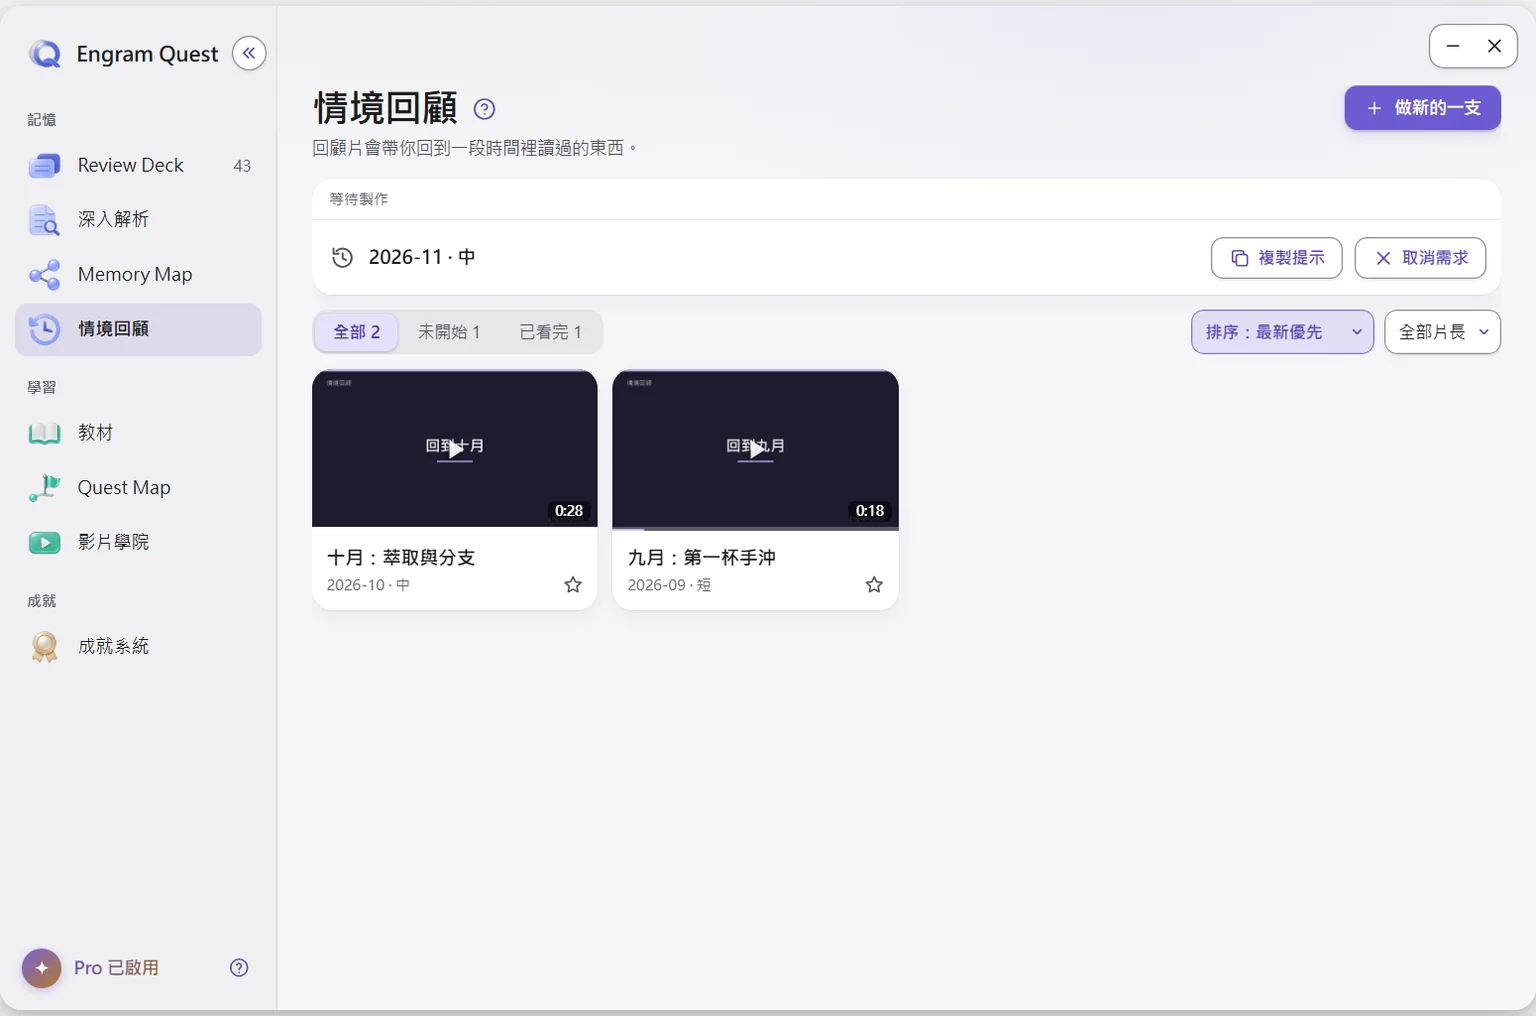
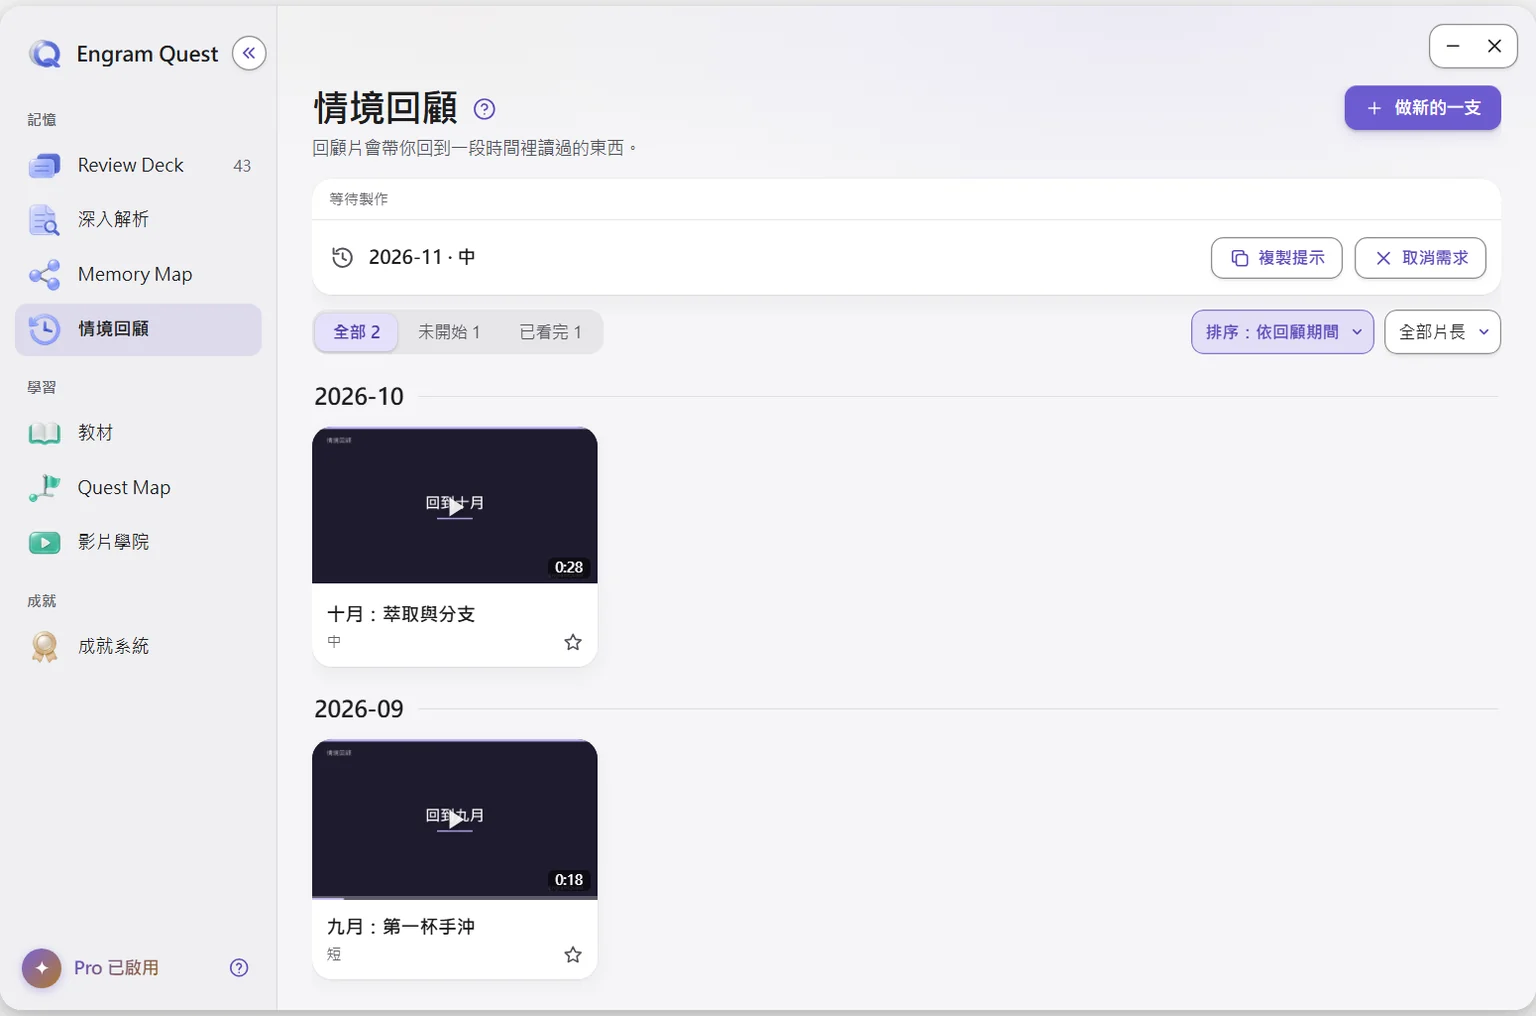
Recall Films opens grouped by period again, now the first sort option, since a recall film is about a period; newest, oldest and recently watched stay in the menu

Changed region(s): [[0.1875, 0.3661, 0.5938, 0.6102], [0.1875, 0.6713, 0.4062, 0.9154], [0.8125, 0.3051, 0.875, 0.3356]]

diff --git a/src/hub/help-content.js b/src/hub/help-content.js
@@ -148,7 +148,7 @@ module.exports = {
       {
         id: "episodic", tab: "episodic", icon: "recall", title: "情境回顧", tag: "觀看免費 · 製作 Pro",
         body: [
-          { p: "情境回顧片把一段時間（通常一個月）讀過的筆記整理成一支動畫影片，帶你回到當時學到的東西。最新做好的片排在最前面，點了就播。上方可以依觀看狀態（觀看中、未開始、已看完、已加星）和片長篩選，也能改成依回顧期間分組或最近看過的順序。想珍藏的片子按卡片上的 ☆ 加星。" },
+          { p: "情境回顧片把一段時間（通常一個月）讀過的筆記整理成一支動畫影片，帶你回到當時學到的東西。片子依回顧期間分組，最近的期間在最前面，點了就播。上方可以依觀看狀態（觀看中、未開始、已看完、已加星）和片長篩選，也能改成最新做好的、最舊的或最近看過的順序。想珍藏的片子按卡片上的 ☆ 加星。" },
           { steps: [
             "按「+ 做新的一支」，選起訖月份與片長（短／中／長，會顯示大約幾分鐘、幾個主題）。這次選的片長下次會自動帶入。",
             "插件記下這個需求並給你一段提示，貼進 Claude Code，episodic-review skill 就會開始做。",
@@ -469,7 +469,7 @@ module.exports = {
       {
         id: "episodic", tab: "episodic", icon: "recall", title: "Recall Films", tag: "Free to watch · Pro to make",
         body: [
-          { p: "A recall film turns the notes you read over a period (usually a month) into an animated film that walks you back through what you learned. The newest film comes first; click one to play it. The bar at the top filters by watch state (Watching, Not started, Finished, Starred) and length, and can group the films by period or list them by when you last watched. Press ☆ on a film to keep it." },
+          { p: "A recall film turns the notes you read over a period (usually a month) into an animated film that walks you back through what you learned. Films are grouped by period, the latest period first; click one to play it. The bar at the top filters by watch state (Watching, Not started, Finished, Starred) and length, and can list the films newest or oldest made, or by when you last watched. Press ☆ on a film to keep it." },
           { steps: [
             "Press \"+ New film\", choose the start and end month and a length (Short, Medium or Long, each with an estimate of minutes and topics). The length you pick is preselected next time.",
             "The plugin saves the request and gives you a prompt. Paste it into Claude Code and the episodic-review skill makes the film.",

diff --git a/src/hub/feature-guide.js b/src/hub/feature-guide.js
@@ -376,7 +376,7 @@ const CONTENT = {
     "zh-tw": {
       title: "情境回顧 — 回到那段時間讀過的東西",
       lines: [
-        "把一段時間（通常一個月）讀過的筆記做成<strong>動畫回顧片</strong>，帶你回到當時學到的東西。最新做好的片排在最前面，點了就播；上方可依<strong>觀看狀態、片長</strong>篩選，或改成依回顧期間分組。按 ☆ 加星，切到「<strong>已加星</strong>」只看想珍藏的片子。",
+        "把一段時間（通常一個月）讀過的筆記做成<strong>動畫回顧片</strong>，帶你回到當時學到的東西。片子依回顧期間分組，最近的期間在最前面，點了就播；上方可依<strong>觀看狀態、片長</strong>篩選，或改成依製作時間排序。按 ☆ 加星，切到「<strong>已加星</strong>」只看想珍藏的片子。",
         "按「<strong>+ 做新的一支</strong>」選月份與片長，插件會給你一段提示，貼進 <strong>Claude Code</strong> 就開始製作。還沒做好的需求會列在上方。",
         "看已經做好的回顧片免費；做新的回顧片需要 <strong>Pro</strong>。",
       ],
@@ -385,7 +385,7 @@ const CONTENT = {
     en: {
       title: "Recall Films — back to what you read",
       lines: [
-        "A recall film turns the notes you read over a period (usually a month) into an <strong>animated film</strong> that walks you back through what you learned. The newest film comes first; click one to play. Filter by <strong>watch state and length</strong> at the top, or group the films by period. Press ☆ to keep a film and switch to <strong>Starred</strong> to see only those.",
+        "A recall film turns the notes you read over a period (usually a month) into an <strong>animated film</strong> that walks you back through what you learned. Films are grouped by period, the latest first; click one to play. Filter by <strong>watch state and length</strong> at the top, or sort them by when they were made. Press ☆ to keep a film and switch to <strong>Starred</strong> to see only those.",
         "Press \"<strong>+ New film</strong>\", choose the months and a length, and the plugin gives you a prompt to paste into <strong>Claude Code</strong>. Requests still being made are listed at the top.",
         "Watching recall films you already have is free; making new ones needs <strong>Pro</strong>.",
       ],

diff --git a/src/videos/episodic.js b/src/videos/episodic.js
@@ -20,7 +20,8 @@ const periodText = (period) => String(period || "").replace("..", " – ");
 
 // Watch state buckets, the same words as the Video Academy shelf.
 const FILTERS = [["all", "VIDEO_F_ALL"], ["watching", "VIDEO_F_WATCHING"], ["new", "VIDEO_F_NEW"], ["done", "VIDEO_F_DONE"], ["starred", "FILTER_STARRED"]];
-const SORTS = [["newest", "SORT_NEWEST"], ["oldest", "SORT_OLDEST"], ["period", "EPISODIC_SORT_PERIOD"], ["watched", "EPISODIC_SORT_WATCHED"]];
+// A recall film is about a period, so the default (first) order groups films by it.
+const SORTS = [["period", "EPISODIC_SORT_PERIOD"], ["newest", "SORT_NEWEST"], ["oldest", "SORT_OLDEST"], ["watched", "EPISODIC_SORT_WATCHED"]];
 
 function promptFor(t, request) {
   return K(c(t, "EPISODIC_PROMPT"), { period: periodText(request.period), length: c(t, LENGTH_KEY[request.length]), id: request.id });
@@ -79,7 +80,7 @@ async function renderEpisodicTab(el, hub) {
   }
 
   const body = root.createDiv({ cls: "lh-scroll" }).createDiv({ cls: "lh-vid-body" });
-  if (!SORTS.some(([id]) => id === hub._eSort)) hub._eSort = "newest";
+  if (!SORTS.some(([id]) => id === hub._eSort)) hub._eSort = SORTS[0][0];
   if (open) {
     // The player's film list keeps the order the learner picked on the list page.
     renderTopic(body, hub, t, { slug: series.slug, meta: { ...series.meta, videos: sortFilms(films, series.meta, hub._eSort) }, othersOnPhone: true }, refresh);

diff --git a/tests/episodic-order.test.js b/tests/episodic-order.test.js
@@ -1,5 +1,5 @@
-// Recall film order on the Recall tab: a newly made film must come first by default, and grouping by
-// period ranks a period by the month it reaches, so "2026-07..2026-11" is not buried under "2026-08".
+// Recall film order on the Recall tab. Grouping by period (the default) ranks a period by the month it
+// reaches, so "2026-07..2026-11" is not buried under "2026-08"; the other sorts order by date.
 import { describe, it, expect } from "vitest";
 import { sortFilms, cardPeriod, watchState } from "../src/videos/episodic-order.js";
 
@@ -15,7 +15,7 @@ const meta = { progress: { "aug-wall": { lastViewed: "2026-11-15T00:00:00Z" }, n
 const ids = (sort) => sortFilms(films, meta, sort).map((f) => f.id);
 
 describe("recall film order", () => {
-  it("puts the newest made film first by default", () => {
+  it("orders by when films were made, newest or oldest first", () => {
     expect(ids("newest")).toEqual(["jul-nov-b", "jul-nov-a", "nov", "aug-long", "aug-wall", "may-jul"]);
     expect(ids("oldest")).toEqual(["may-jul", "aug-wall", "aug-long", "nov", "jul-nov-a", "jul-nov-b"]);
   });
